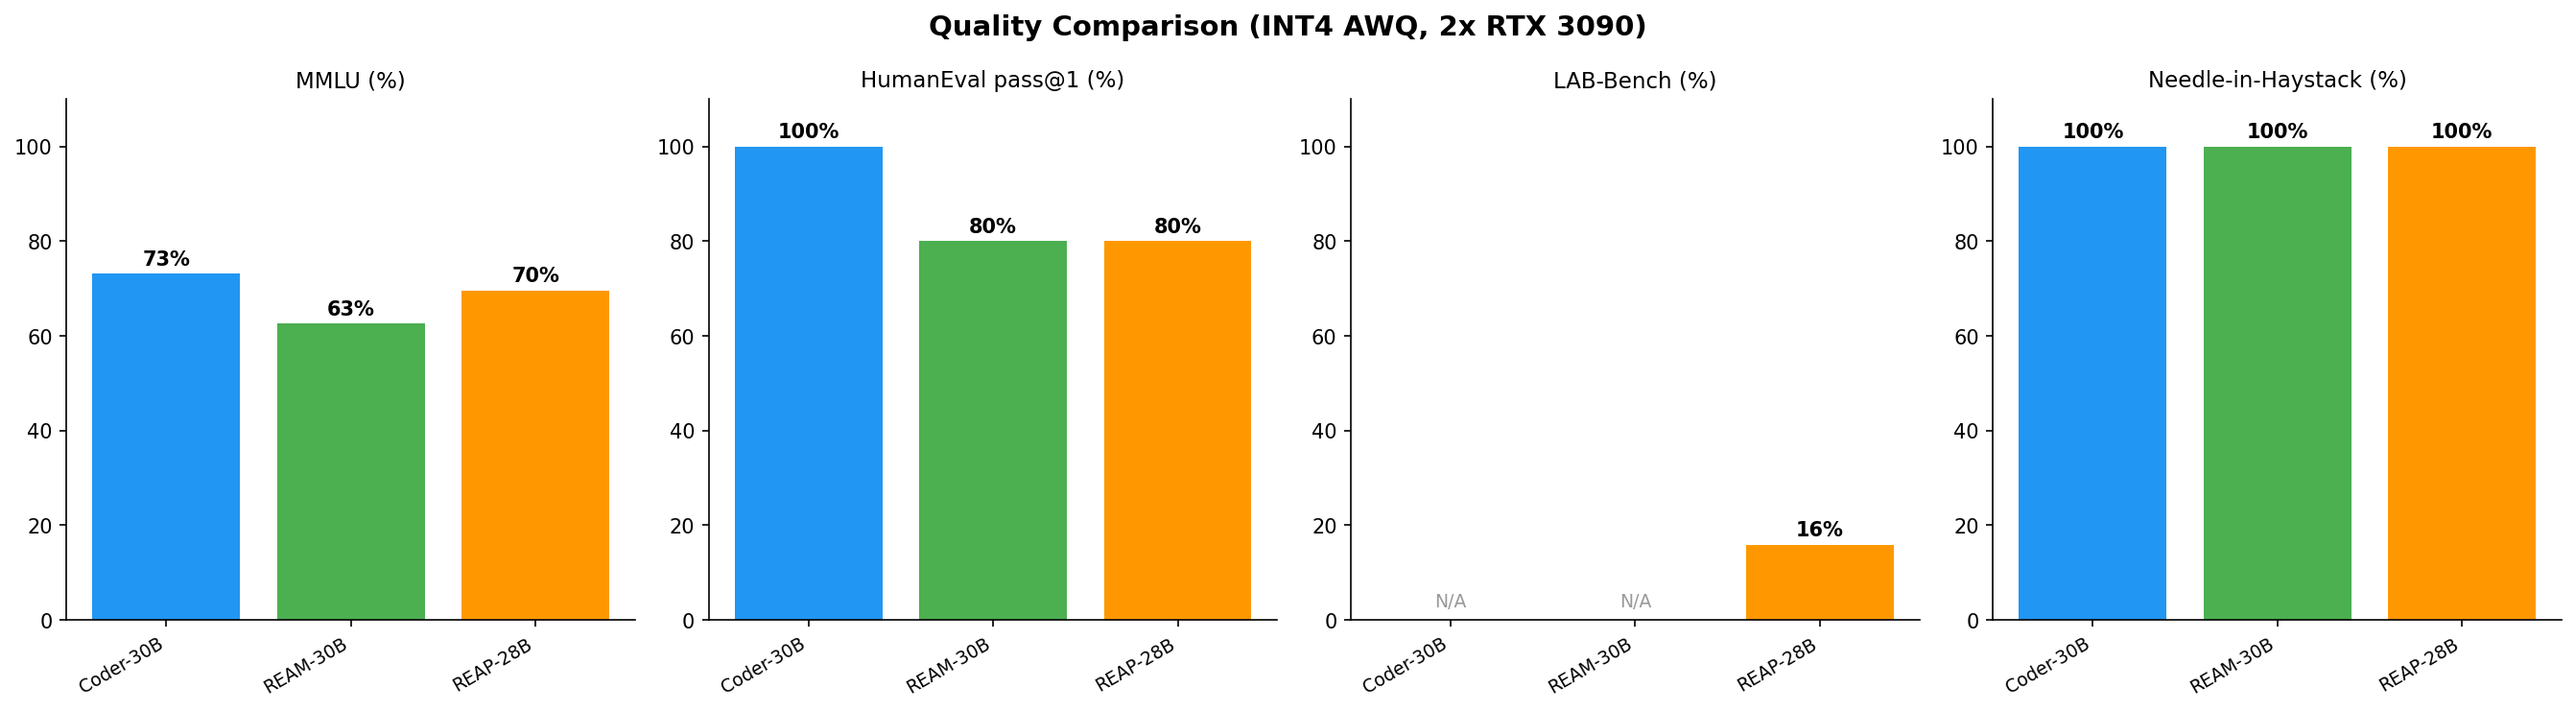
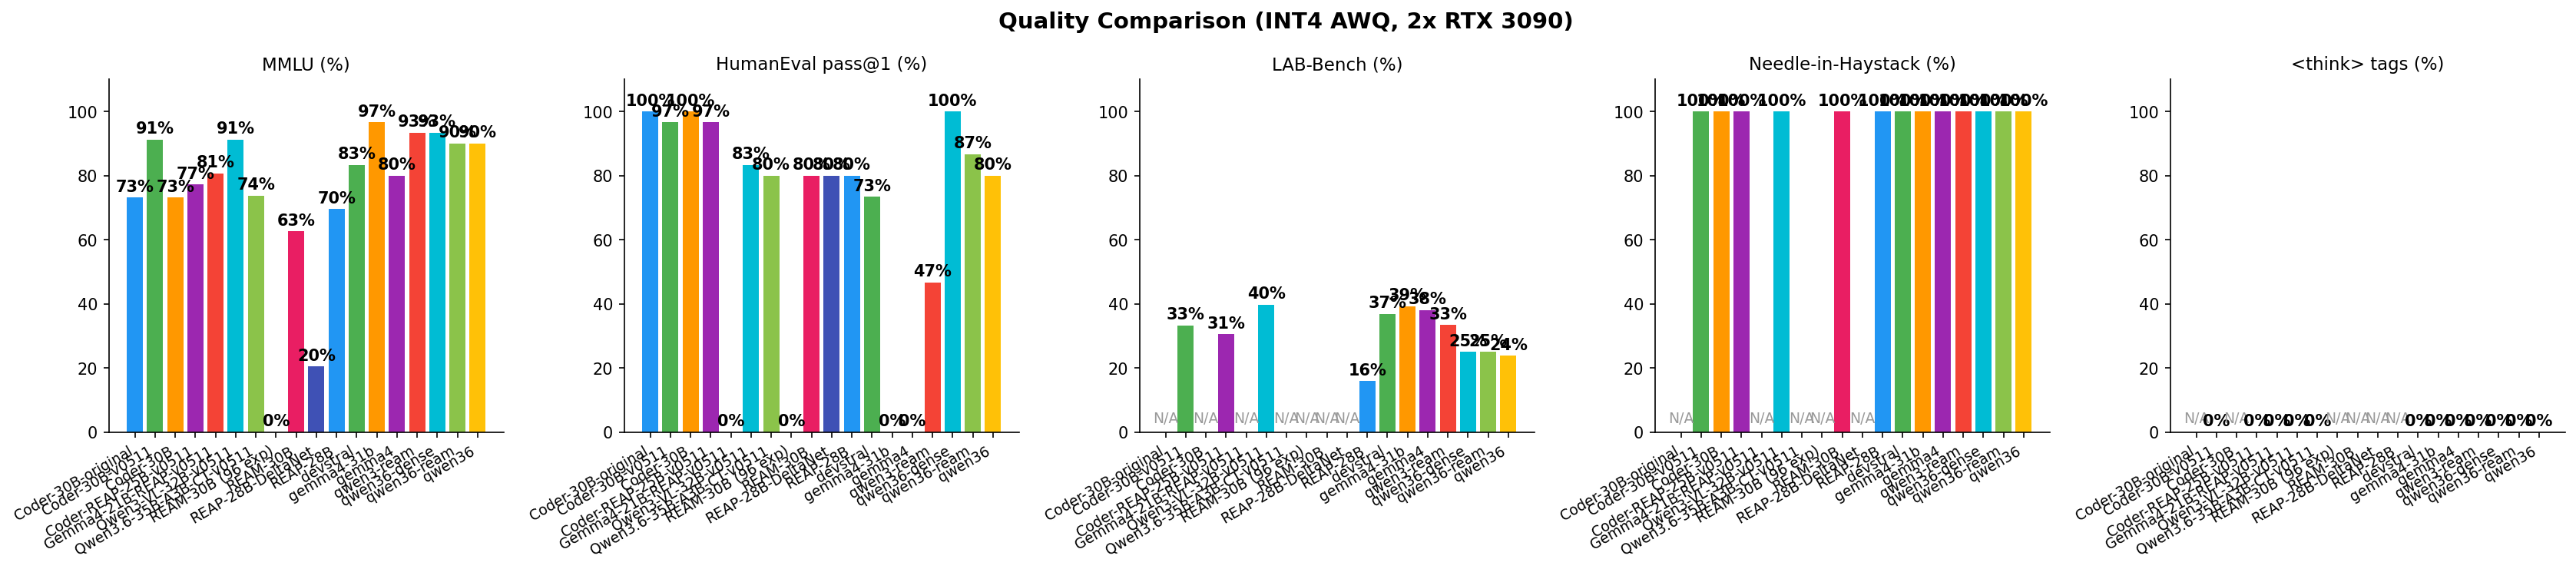
eval: chat-format HumanEval + needle-depth variation + fix quality-chart crash
- HumanEval now uses the CHAT endpoint with robust code extraction (strip think +
  ```fences, take last block, use full func if it redefines entry_point else prepend
  prompt). Fixes Gemma reading 0% on raw /completions (a template artifact). 4/4 offline
  extraction cases pass; coders still extract cleanly.
- Needle test varies DEPTH (0.1/0.5/0.9 through the filler) at every length to catch
  lost-in-the-middle at 256K, not just a single mid placement (5 lengths x 3 depths =
  15 cells). probe_256k_tooluse.py gets a --depth arg (default 0.5, sweepable).
- generate_charts quality chart: filter benchmarks/quality/*.json to real receipts
  (skip bakeoff/audit/tooluse/context-reliability jsons that crashed r["tag"]); cycle
  the color palette for >5 models. quality_comparison.png regenerates (stale since Apr 18).

diff --git a/scripts/eval/eval_and_chart.py b/scripts/eval/eval_and_chart.py
@@ -138,21 +138,33 @@ def mmlu_eval(url, n_samples=200, max_workers=8, max_tokens=4096):
 
 
 def humaneval_eval(url, n_samples=30, max_workers=4, max_tokens=4096):
-    """HumanEval code generation pass@1."""
+    """HumanEval pass@1 via the CHAT endpoint.
+
+    The raw /completions endpoint zeros chat/instruct models whose chat template
+    wraps the prompt (Gemma read 0% — an artifact, not a capability loss). Ask via
+    chat for the full function in a code block; extraction is robust to thinking and
+    to the model returning either the whole function (redefines entry_point -> use
+    whole) or just a body (-> prepend the prompt). Takes the LAST code block so a
+    thinking model's scratch code blocks don't shadow the final answer.
+    """
     ds = list(load_dataset("openai/openai_humaneval", split="test"))[:n_samples]
     passed = total = 0
 
     def eval_one(item):
+        prompt, test, entry = item["prompt"], item["test"], item["entry_point"]
         try:
-            r = requests.post(url.replace("/chat/completions", "/completions"), json={
-                "prompt": item["prompt"], "max_tokens": min(max_tokens, 4096), "temperature": 0,
-                "stop": ["\ndef ", "\nclass ", "\n#", "\nif __name__"],
-            }, timeout=60).json()
-            comp = re.sub(r"<think>.*?</think>", "", r["choices"][0]["text"], flags=re.DOTALL)
-            comp = re.sub(r"<think>.*", "", comp, flags=re.DOTALL)
+            r = requests.post(url, json={"model": "default", "messages": [{"role": "user",
+                "content": ("Complete this Python function. Reply with ONLY the full function "
+                            "(signature + body) in a single ```python code block.\n\n```python\n"
+                            + prompt + "\n```")}],
+                "max_tokens": min(max_tokens, 4096), "temperature": 0}, timeout=120).json()
+            content = _answer_text(r["choices"][0]["message"])
+            blocks = re.findall(r"```(?:python)?\s*\n(.*?)```", content, re.DOTALL)
+            code = blocks[-1] if blocks else content
+            full = code if re.search(rf"def\s+{re.escape(entry)}\b", code) else prompt + code
             g = {}
-            exec(item["prompt"] + comp + "\n" + item["test"], g)
-            g["check"](g[item["entry_point"]])
+            exec(full + "\n" + test, g)
+            g["check"](g[entry])
             return True
         except Exception:
             return False
@@ -227,27 +239,34 @@ def labbench_suite(url, n_samples=50, max_workers=1, max_tokens=4096):
     return results
 
 
-def needle_eval(url, lengths=[1024, 4096, 16384, 65536], max_tokens=4096):
-    """Needle-in-a-haystack at various context lengths."""
+def needle_eval(url, lengths=[1024, 4096, 16384, 65536], depths=(0.1, 0.5, 0.9), max_tokens=4096):
+    """Needle-in-a-haystack at various context lengths AND depths.
+
+    Varying the needle DEPTH (fraction through the filler) catches lost-in-the-
+    middle — a model can ace start/end placement yet miss the middle at long
+    context, which a single mid-placement test hides. score = found-rate across
+    all (ctx, depth) cells. Set depths=(0.5,) for the cheaper single-placement test.
+    """
     filler = "The quick brown fox jumps over the lazy dog. " * 100
     needle = "The secret password is: BANANA42."
     # Needle answers are short — cap at 512 regardless of model context
     needle_budget = min(max_tokens, 512)
     results = []
     for ctx in lengths:
-        mid = ctx * 2
-        haystack = filler[:mid] + "\n" + needle + "\n" + filler[:mid]
-        prompt = haystack[:ctx * 4] + "\n\nWhat is the secret password? Answer with just the password."
-        try:
-            r = requests.post(url, json={"model": "default", "messages": [
-                {"role": "user", "content": prompt}
-            ], "max_tokens": needle_budget, "temperature": 0}, timeout=600).json()
-            content = _answer_text(r["choices"][0]["message"])
-            found = "BANANA42" in content
-        except Exception:
-            found = False
-        results.append({"context": ctx, "found": found})
-    return {"results": results, "score": sum(r["found"] for r in results) / len(results)}
+        body = (filler * (ctx * 4 // len(filler) + 1))[:ctx * 4]  # ~ctx tokens of filler
+        for depth in depths:
+            pos = int(len(body) * depth)
+            prompt = (body[:pos] + "\n" + needle + "\n" + body[pos:]
+                      + "\n\nWhat is the secret password? Answer with just the password.")
+            try:
+                r = requests.post(url, json={"model": "default", "messages": [
+                    {"role": "user", "content": prompt}
+                ], "max_tokens": needle_budget, "temperature": 0}, timeout=max(600, ctx // 150)).json()
+                found = "BANANA42" in (_answer_text(r["choices"][0]["message"]) or "")
+            except Exception:
+                found = False
+            results.append({"context": ctx, "depth": depth, "found": found})
+    return {"results": results, "score": sum(r["found"] for r in results) / len(results) if results else 0}
 
 
 def run_eval(port, tag, mmlu_n=200, he_n=30, labbench_n=50, needle_lengths=[1024, 4096, 16384, 65536], workers=1, mc_budget_arg=0):
@@ -327,7 +346,8 @@ def run_eval(port, tag, mmlu_n=200, he_n=30, labbench_n=50, needle_lengths=[1024
         print(f"\nNeedle ({needle_lengths})...")
         results["needle"] = needle_eval(url, needle_lengths, max_tokens=mc_budget)
         for r in results["needle"]["results"]:
-            print(f"  {r['context']:>6d}: {'✓' if r['found'] else '✗'}")
+            print(f"  {r['context']:>7d} @{r.get('depth', 0.5):.0%}: {'✓' if r['found'] else '✗'}")
+        print(f"  needle score: {results['needle']['score']:.1%}")
         save()
     else:
         print(f"\nNeedle: {results['needle']['score']:.1%} (cached)")
@@ -347,13 +367,20 @@ def generate_charts():
         print("pip install matplotlib for charts")
         return
 
-    # Load all results
+    # Load only real quality receipts. benchmarks/quality/ also holds bakeoff-*.json
+    # (key "preset"), tooluse256k-*.json (has "tag" but no quality metric), audit +
+    # context-reliability jsons — a bare r["tag"] over all of them crashed this chart.
     results = []
     for f in sorted(RESULTS_DIR.glob("*.json")):
-        results.append(json.load(open(f)))
+        try:
+            d = json.load(open(f))
+        except Exception:
+            continue
+        if "tag" in d and any(k in d for k in ("mmlu", "humaneval", "labbench", "needle")):
+            results.append(d)
 
     if not results:
-        print("No results found. Run evals first.")
+        print("No quality results found. Run evals first.")
         return
 
     tags = [r["tag"] for r in results]
@@ -391,7 +418,8 @@ def generate_charts():
         axes = [axes]
     fig.suptitle("Quality Comparison (INT4 AWQ, 2x RTX 3090)", fontsize=14, fontweight="bold")
 
-    colors = ["#2196F3", "#4CAF50", "#FF9800", "#9C27B0", "#F44336"][:len(tags)]
+    _palette = ["#2196F3", "#4CAF50", "#FF9800", "#9C27B0", "#F44336", "#00BCD4", "#8BC34A", "#FFC107", "#E91E63", "#3F51B5"]
+    colors = [_palette[i % len(_palette)] for i in range(len(tags))]
 
     for ax, (title, data) in zip(axes, benchmarks):
         vals = [v * 100 if v is not None else 0 for v in data]

diff --git a/scripts/eval/probe_256k_tooluse.py b/scripts/eval/probe_256k_tooluse.py
@@ -53,13 +53,14 @@ TASK = ("\n\nNow use the lookup_record tool to fetch the record. Use exactly the
         "specified in the CRITICAL INSTRUCTION above. Call the tool — do not answer in prose.")
 
 
-def build_prompt(approx_tokens: int) -> str:
-    """~approx_tokens of filler with the needle planted at the midpoint."""
+def build_prompt(approx_tokens: int, depth: float = 0.5) -> str:
+    """~approx_tokens of filler with the needle instruction planted at `depth` (0..1
+    through the filler) — vary depth to probe lost-in-the-middle tool-calling."""
     target_chars = int(approx_tokens * 3.8)  # rough chars/token for this filler
-    half = target_chars // 2
-    n = (half // len(FILLER_UNIT)) + 1
-    block = (FILLER_UNIT * n)[:half]
-    return block + NEEDLE + block + TASK
+    n = (target_chars // len(FILLER_UNIT)) + 1
+    body = (FILLER_UNIT * n)[:target_chars]
+    pos = int(len(body) * depth)
+    return body[:pos] + NEEDLE + body[pos:] + TASK
 
 
 def extract_toolcall(msg: dict):
@@ -78,8 +79,8 @@ def extract_toolcall(msg: dict):
     return True, args
 
 
-def probe_one(url, approx_tokens, max_tokens=2048, timeout=900):
-    prompt = build_prompt(approx_tokens)
+def probe_one(url, approx_tokens, max_tokens=2048, timeout=900, depth=0.5):
+    prompt = build_prompt(approx_tokens, depth)
     t0 = time.time()
     try:
         r = requests.post(url, json={
@@ -116,6 +117,8 @@ def main():
     ap.add_argument("--lengths", default="16384,65536,131072,196608,256000",
                     help="comma-separated approx token context lengths")
     ap.add_argument("--max-tokens", type=int, default=2048)
+    ap.add_argument("--depth", type=float, default=0.5,
+                    help="needle depth 0..1 through the filler (sweep externally for lost-in-the-middle)")
     ap.add_argument("--out", default=None)
     args = ap.parse_args()
 
@@ -125,7 +128,7 @@ def main():
     print(f"{'approx':>8} {'actual':>8} {'finish':>12} {'valid':>6} {'correct':>8} {'id':>10} {'s':>5}")
     results = []
     for L in lengths:
-        res = probe_one(url, L, max_tokens=args.max_tokens)
+        res = probe_one(url, L, max_tokens=args.max_tokens, depth=args.depth)
         results.append(res)
         if "error" in res:
             print(f"{L:>8} {'—':>8} {'ERROR':>12} {res['error']}")